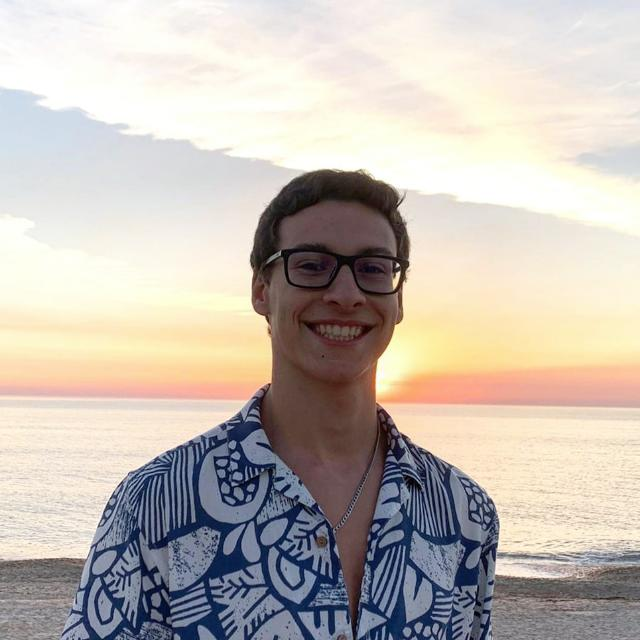
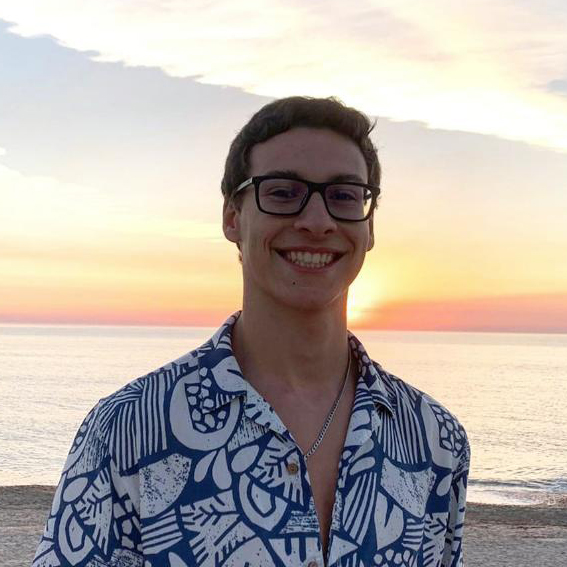
new photos and deleted unused photos

diff --git a/src/components/team/team.js b/src/components/team/team.js
@@ -31,7 +31,6 @@ const Team = ({ name, members, n_per_row }) => {
       <div className={TeamStyles.members_container}>
         {member_rows.map(row_members => {
           return row_members.map((value, index) => {
-            console.log(value.name, value.img);
             return <Member data={value} key={"member" + index} />;
           });
         })}
